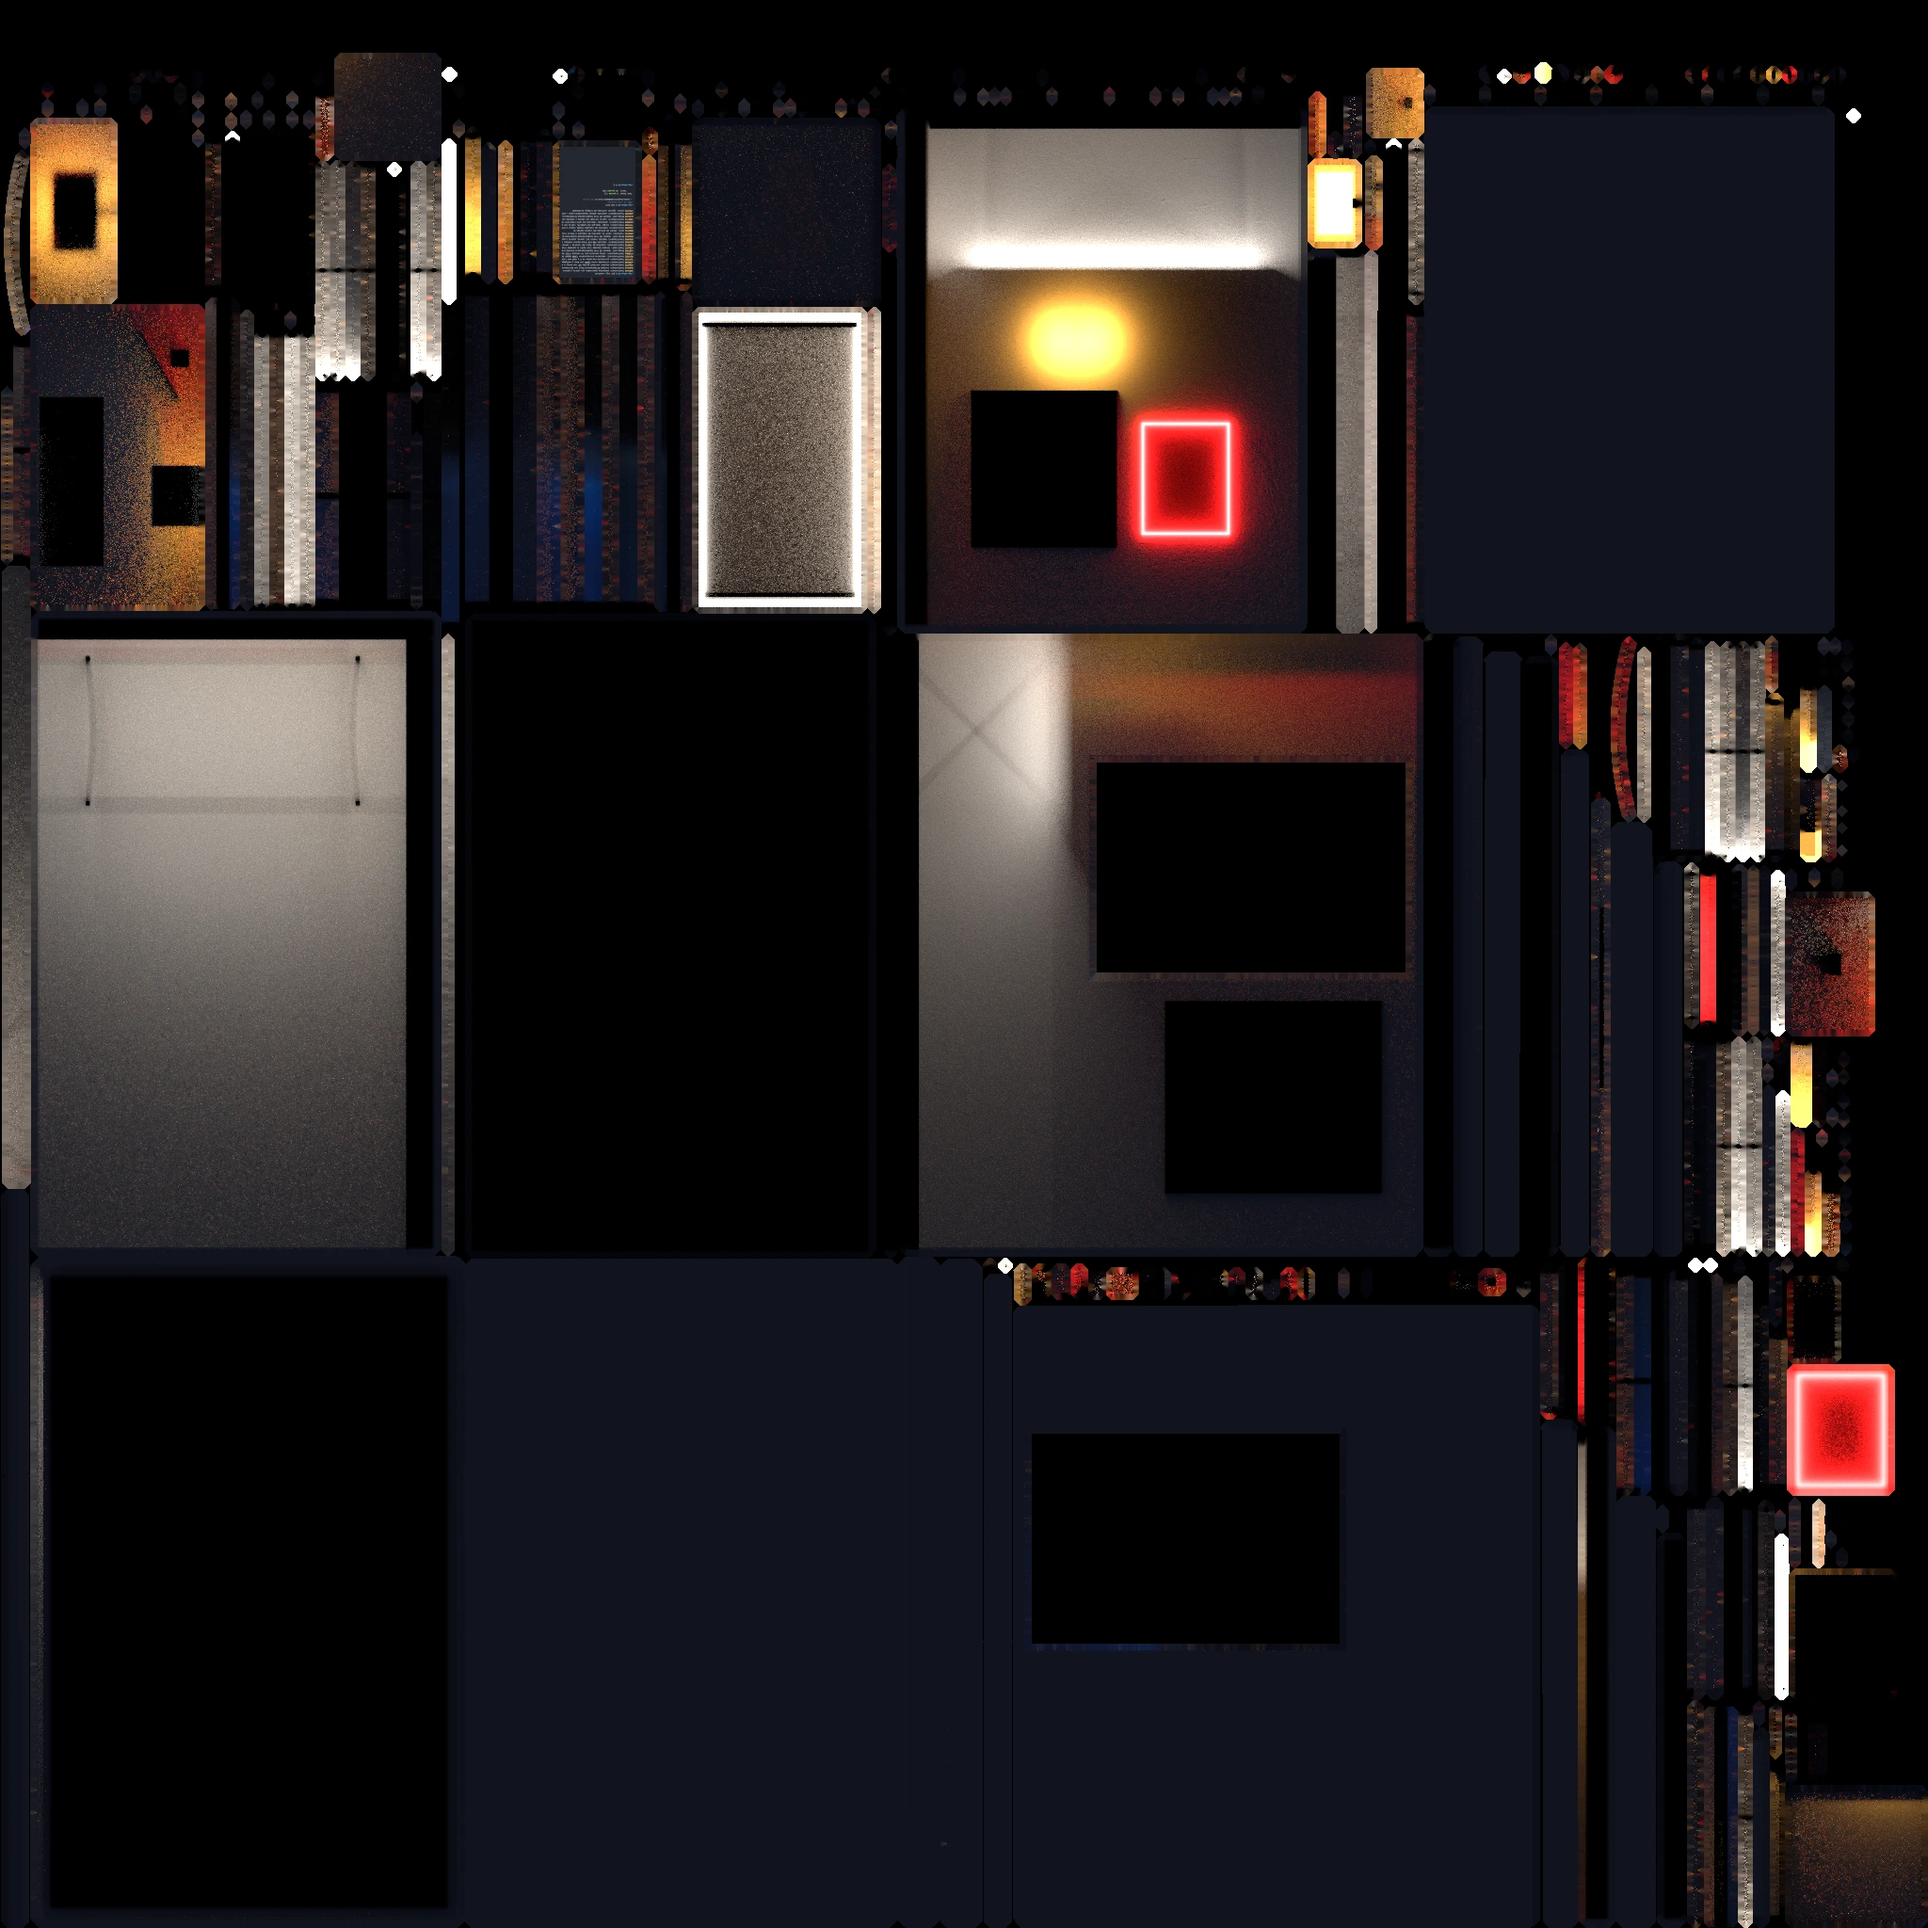
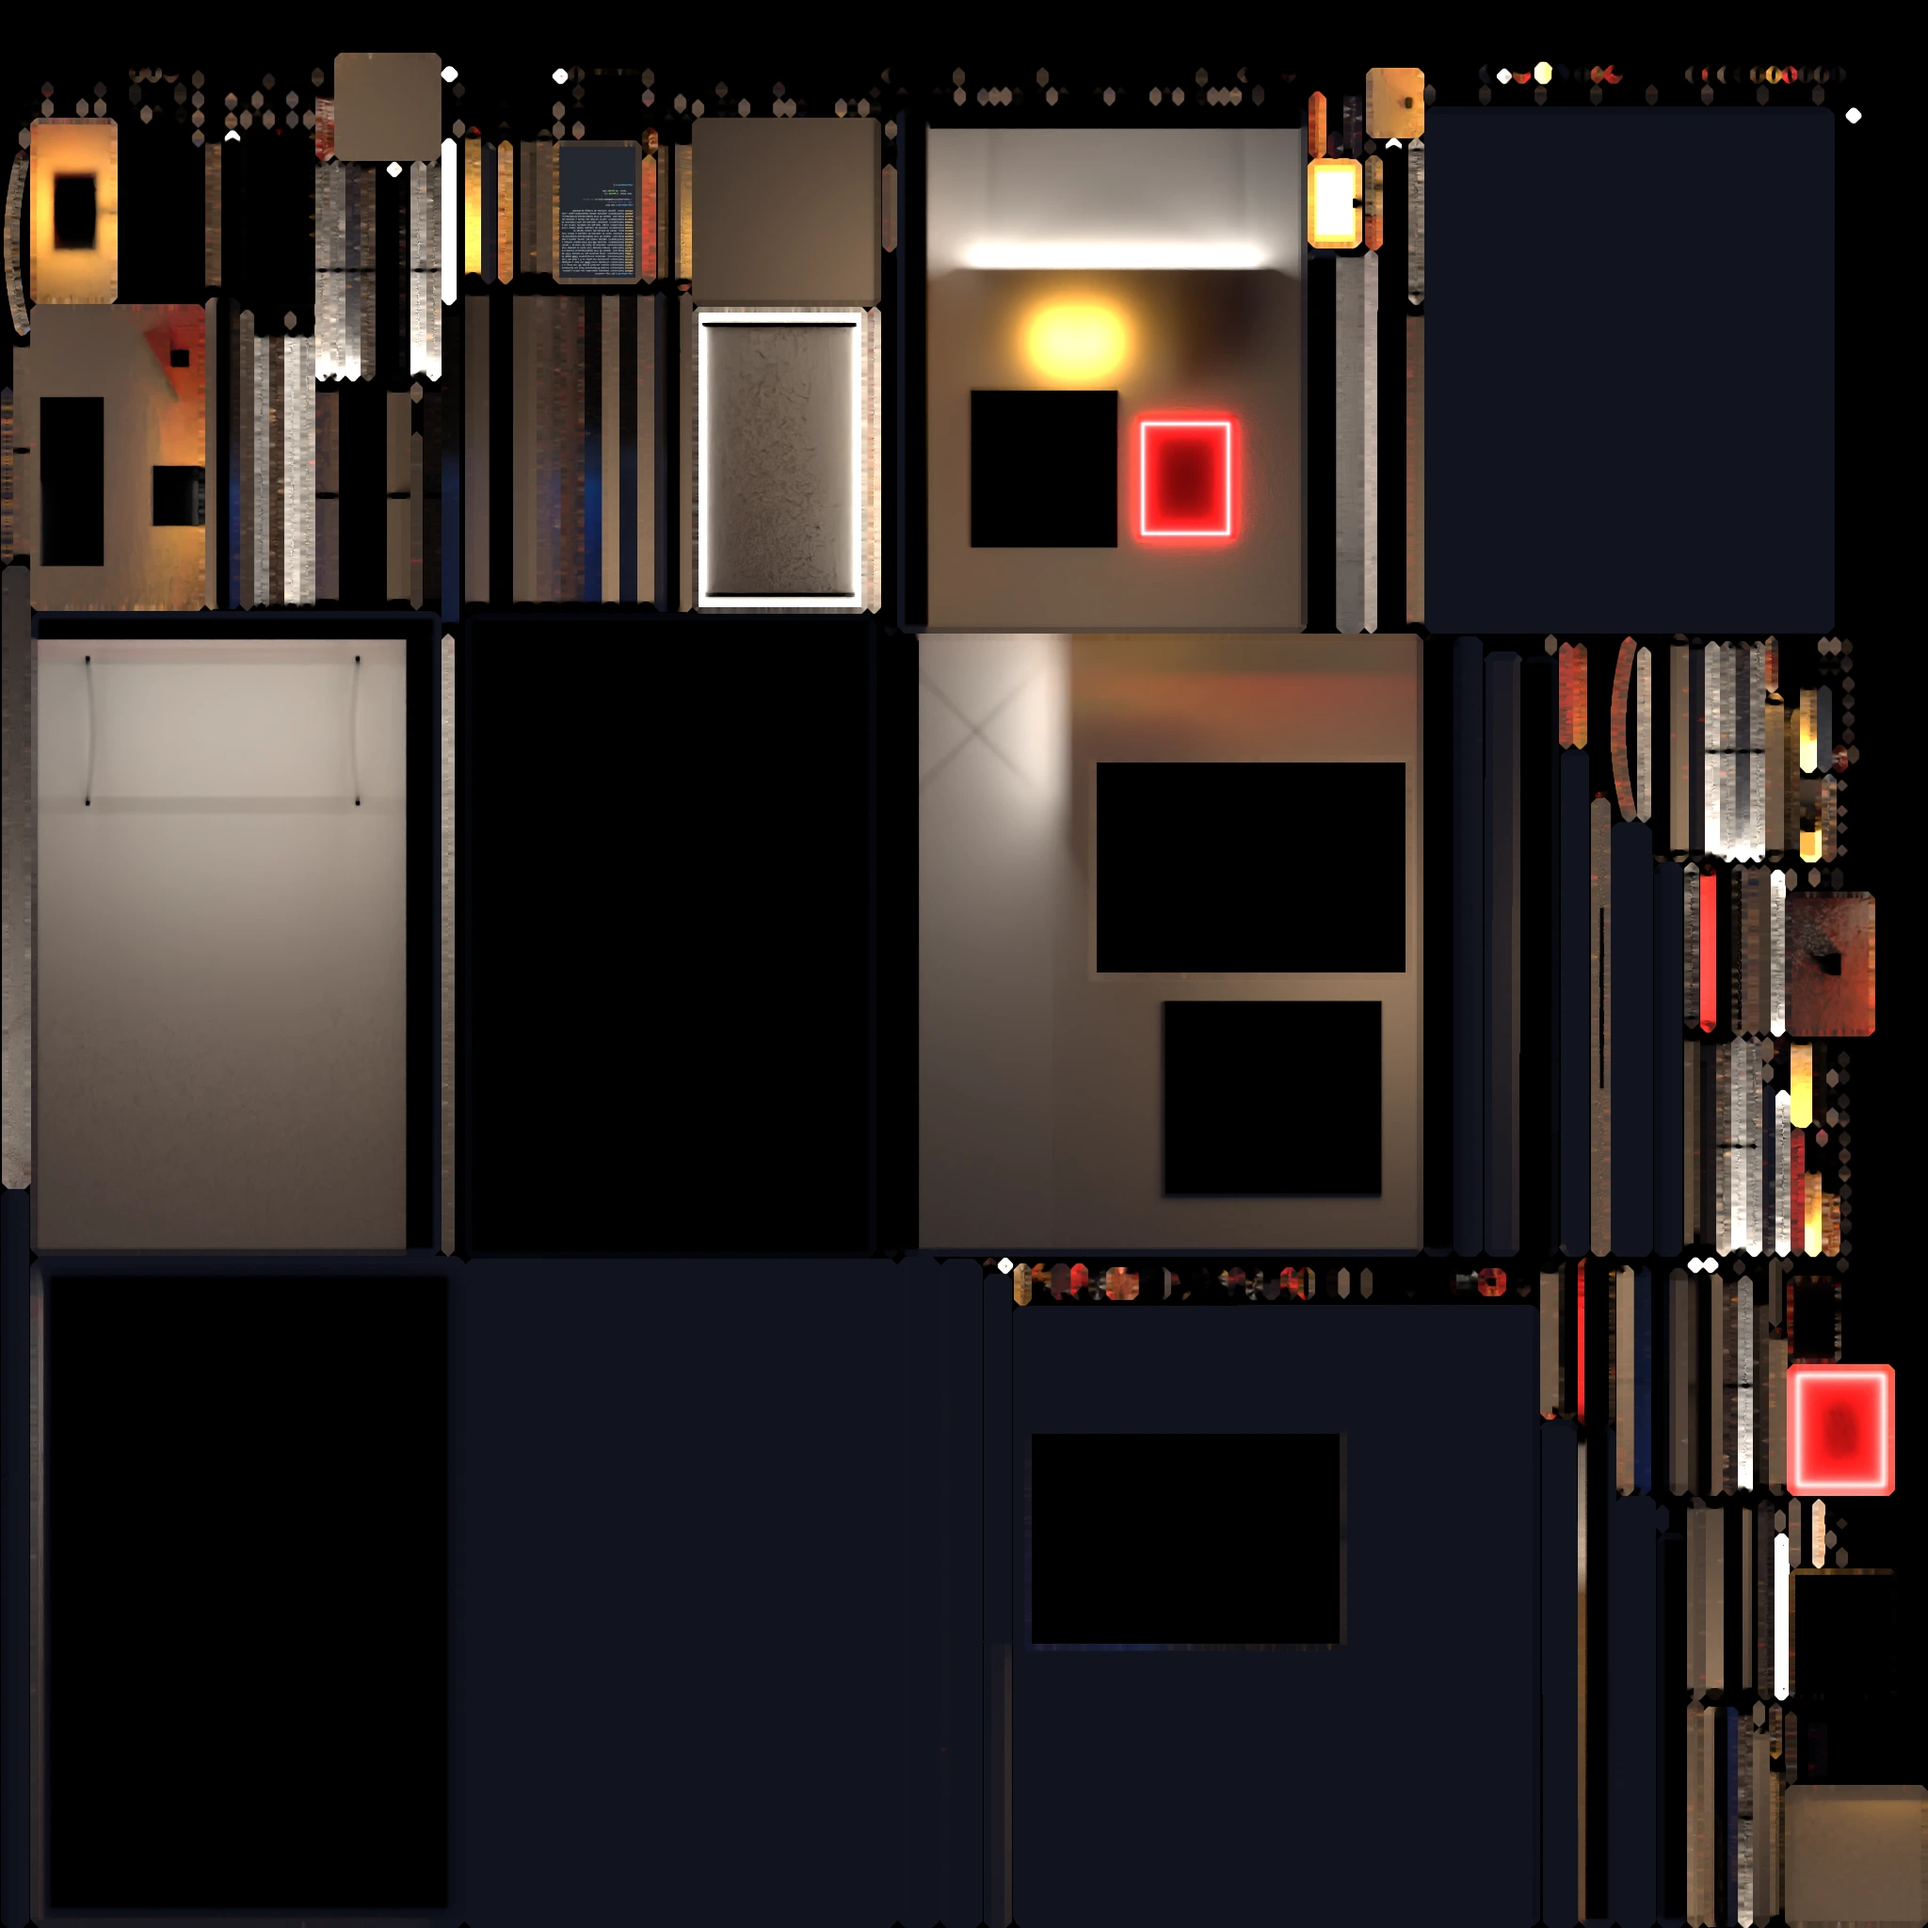
feat(assets): lightmaps de tarde y noche (calidad final + denoise) y lightmap.json por ambiente; test de contrato para ambos
lightmap.webp (= noche) se mantiene mientras la web no mezcle ambientes (grupo 5).
Con denoise cada lightmap pesa ~170 KB (antes 483 KB): sin ruido, WebP comprime mucho mejor.

diff --git a/tests/assets/roomModel.test.ts b/tests/assets/roomModel.test.ts
@@ -15,6 +15,9 @@ import { ITEMS } from '../../src/data/items.ts'
 const GLB = 'public/models/room.glb'
 const LIGHTMAP = 'public/models/lightmap.webp'
 const LIGHTMAP_META = 'public/models/lightmap.json'
+// Un lightmap por ambiente (redesign-showroom-style D1/D2), horneados sobre la misma UV2
+const AMBIENCES = ['tarde', 'noche'] as const
+const ambienceLightmap = (name: string) => `public/models/lightmap-${name}.webp`
 const MAX_BYTES = 15 * 1024 * 1024 // spec room-scene: descarga inicial ≤ 15 MB
 
 const ROOM_NODES = [
@@ -49,8 +52,16 @@ beforeAll(async () => {
 })
 
 describe('room.glb', () => {
-  it('el modelo y su lightmap pesan juntos como máximo 15 MB', () => {
-    expect(statSync(GLB).size + statSync(LIGHTMAP).size).toBeLessThanOrEqual(MAX_BYTES)
+  it('el modelo y sus lightmaps pesan juntos como máximo 15 MB', () => {
+    const lightmaps = AMBIENCES.reduce((sum, name) => sum + statSync(ambienceLightmap(name)).size, 0)
+    expect(statSync(GLB).size + statSync(LIGHTMAP).size + lightmaps).toBeLessThanOrEqual(MAX_BYTES)
+  })
+
+  it.each(AMBIENCES)('tiene el lightmap de %s con su intensidad y exposición', (name) => {
+    const meta = JSON.parse(readFileSync(LIGHTMAP_META, 'utf8'))
+    expect(meta.ambiences[name].intensity).toBeGreaterThan(0)
+    expect(typeof meta.ambiences[name].exposure).toBe('number')
+    expect(statSync(ambienceLightmap(name)).size).toBeGreaterThan(0)
   })
 
   it('tiene el lightmap horneado con su factor de intensidad', () => {
